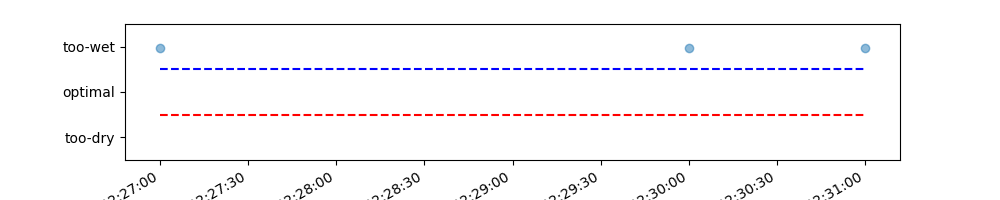
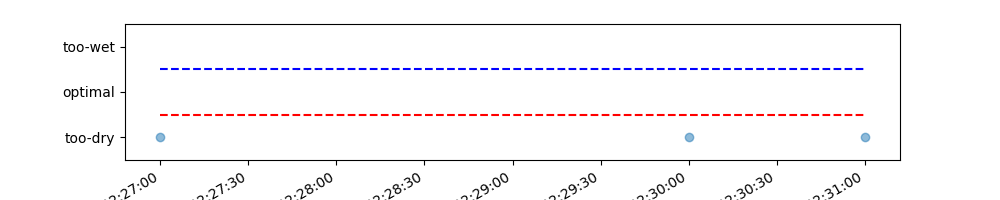
Update

diff --git a/index.html b/index.html
@@ -1,1 +1,1 @@
-<h >Lawn moisture monitor</h><br ></br><h4 >last weeks trend:</h4><img src="moisture-trend.png"></img><br ></br><p >Current moisture content: optimal</p><p >Suggested action: water if sunny</p>
+<h >Lawn moisture monitor</h><br ></br><h4 >last weeks trend:</h4><img src="moisture-trend.png"></img><br ></br><p >Current moisture content: low</p><p >Suggested action: water the lawn</p>

diff --git a/format_index.py b/format_index.py
@@ -36,12 +36,12 @@ def get_moisture_data():
         data = list(reader)
 
     X = [datetime.datetime.fromtimestamp(float(row[0])) for row in data[-346:]]
-    y = 1 - sum(float(row[1]) for row in data[-168:]) / 168
+    y = [1 - (int(row[1]) + int(row[2])) / 2.0 for row in data]
 
     fig = plt.figure(figsize=(10, 2))
     fig.gca().yaxis.set(ticks=[-0.5, 0, 0.5, 1, 1.5])
 
-    plt.scatter(X, [y] * len(X), alpha=0.5)
+    plt.scatter(X,y, alpha=0.5)
 
     plt.plot(X, [0.75] * len(X), "--b")
     plt.plot(X, [0.25] * len(X), '--r')
@@ -54,7 +54,7 @@ def get_moisture_data():
     plt.gcf().autofmt_xdate()
 
     plt.savefig('moisture-trend.png')
-    current_moisture = ("low", "optimal", 'high')[int(2 * y)]
+    current_moisture = ("low", "optimal", 'high')[int(2 * y[-1])]
     return 'moisture-trend.png', current_moisture
 
 def tag(tag, text="", options=""):
@@ -80,3 +80,5 @@ def update_html():
         site.write(tag("br"))
         site.write(tag("p", f"Current moisture content: {current_moisture}"))
         site.write(tag("p", f"Suggested action: {action}"))
+
+update_html()
